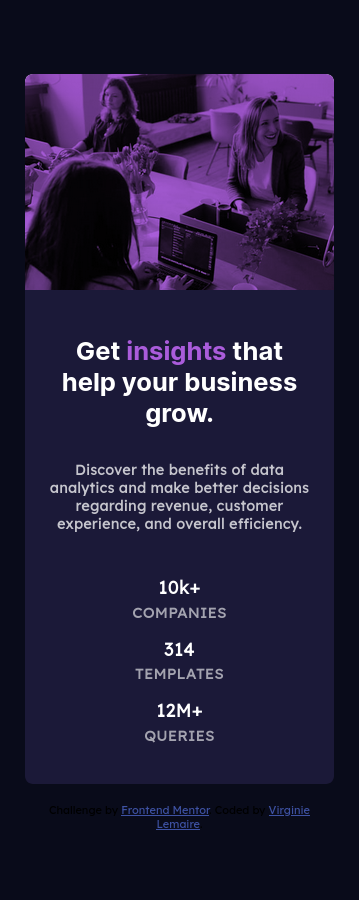
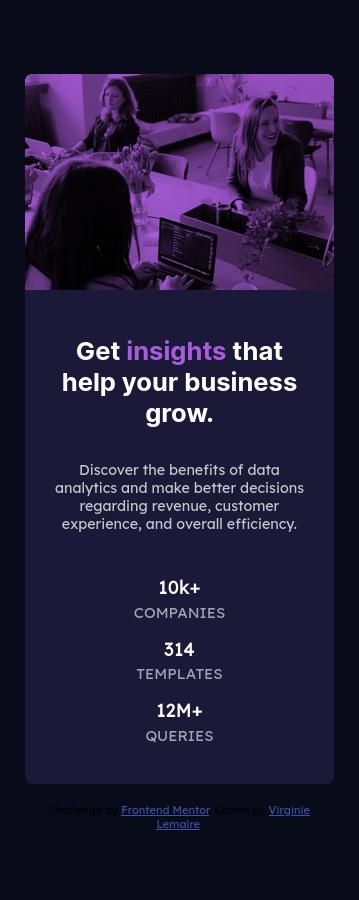
changed font-weight

diff --git a/css/style.css b/css/style.css
@@ -56,6 +56,9 @@ h2 {
   color: hsla(0, 0%, 100%, 0.75);
   font-size: 95%;
 }
+h2, .text {
+  font-weight: normal;
+}
 
 .stats {
   width: 100%;
